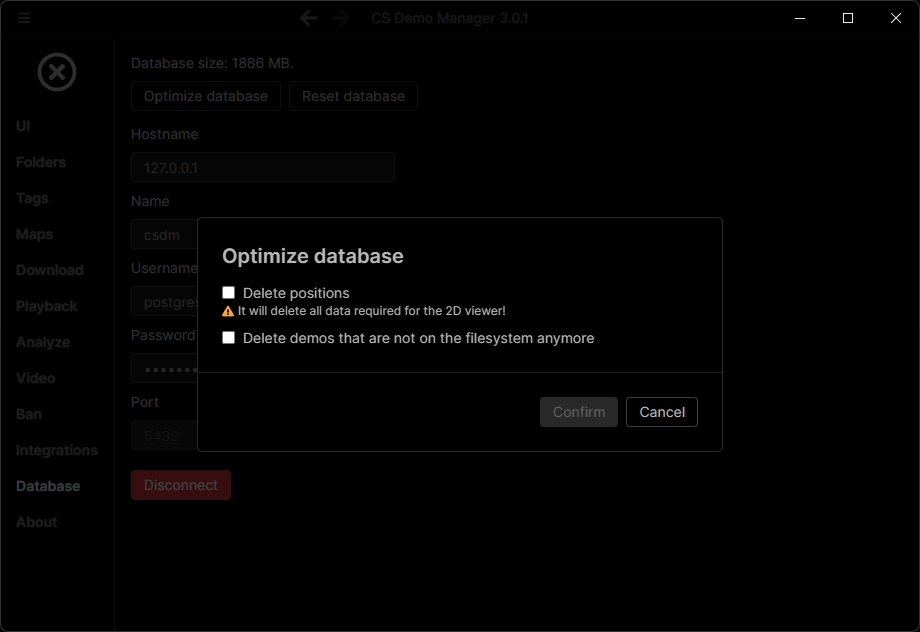
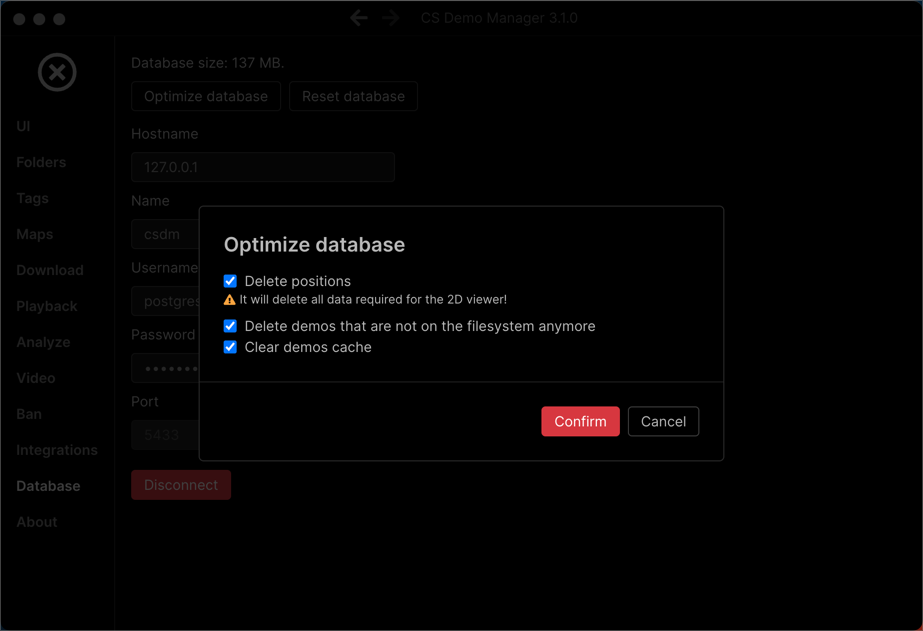
feat: 3.2.0 changelog

diff --git a/docs/06-cli.md b/docs/06-cli.md
@@ -170,11 +170,11 @@ Analyze demos and persist them in the database.
 csdm analyze [demoPaths...] [--source] [--force]
 ```
 
-| Name      | Default | Mandatory | Description                                                                                                                                |
-| --------- | ------- | --------- | ------------------------------------------------------------------------------------------------------------------------------------------ |
-| demoPaths |         | Yes       | Demos paths, can be either a `.dem` files path or a directory. It can be relative or absolute.                                             |
-| --source  |         | No        | Force the analysis logic of the demo analyzer. Available values: `challengermode,ebot,esea,esl,faceit,perfectworld,popflash,valve,fastcup` |
-| --force   | `false` | No        | Force demos analyzes even if they are already in the database.                                                                             |
+| Name      | Default | Mandatory | Description                                                                                                                                       |
+| --------- | ------- | --------- | ------------------------------------------------------------------------------------------------------------------------------------------------- |
+| demoPaths |         | Yes       | Demos paths, can be either a `.dem` files path or a directory. It can be relative or absolute.                                                    |
+| --source  |         | No        | Force the analysis logic of the demo analyzer. Available values: `challengermode,ebot,esea,esl,faceit,5eplay,fastcup,perfectworld,popflash,valve` |
+| --force   | `false` | No        | Force demos analyzes even if they are already in the database.                                                                                    |
 
 ### Examples
 
@@ -204,14 +204,14 @@ Analyze and export demos to either a single or multiple XLSX files.
 csdm xlsx demoPaths... [--output-folder] [--source] [--single] [--sheets] [--force-analyze]
 ```
 
-| Name            | Default           | Mandatory | Description                                                                                                                                |
-| --------------- | ----------------- | --------- | ------------------------------------------------------------------------------------------------------------------------------------------ |
-| demoPaths       |                   | Yes       | Demos paths, can be either a `.dem` files path or a directory. It can be relative or absolute.                                             |
-| --source        |                   | No        | Force the analysis logic of the demo analyzer. Available values: `challengermode,ebot,esea,esl,faceit,perfectworld,popflash,valve,fastcup` |
-| --output-folder | Current directory | No        | Directory where output files will be saved.                                                                                                |
-| --single        | `false`           | No        | Generates a single XLSX file instead of one per demo.                                                                                      |
-| --sheets        | All sheets        | No        | Includes only sheets identified by its name. Available values: [general,players,rounds,kills].                                             |
-| --force-analyze | `false`           | No        | Force demos analyzes even if they are already in the database.                                                                             |
+| Name            | Default           | Mandatory | Description                                                                                                                                       |
+| --------------- | ----------------- | --------- | ------------------------------------------------------------------------------------------------------------------------------------------------- |
+| demoPaths       |                   | Yes       | Demos paths, can be either a `.dem` files path or a directory. It can be relative or absolute.                                                    |
+| --source        |                   | No        | Force the analysis logic of the demo analyzer. Available values: `challengermode,ebot,esea,esl,faceit,5eplay,fastcup,perfectworld,popflash,valve` |
+| --output-folder | Current directory | No        | Directory where output files will be saved.                                                                                                       |
+| --single        | `false`           | No        | Generates a single XLSX file instead of one per demo.                                                                                             |
+| --sheets        | All sheets        | No        | Includes only sheets identified by its name. Available values: [general,players,rounds,kills].                                                    |
+| --force-analyze | `false`           | No        | Force demos analyzes even if they are already in the database.                                                                                    |
 
 ### Examples
 

diff --git a/docs/04-faq/04-stats.md b/docs/04-faq/04-stats.md
@@ -24,6 +24,7 @@ To change a demo's source, right-click on it in the demos list and click on **Ch
 
 | Source         | CSGO | CS2 | Comment                                                                                                                 |
 | -------------- | ---- | --- | ----------------------------------------------------------------------------------------------------------------------- |
+| 5EPlay         | ✅   | ✅  |                                                                                                                         |
 | CEVO           | ❌   | ❌  | Dead platform but demos are still detected in the app                                                                   |
 | Challengermode | ✅   | ✅  |                                                                                                                         |
 | eBot           | ✅   | ✅  |                                                                                                                         |

diff --git a/docs/04-faq/03-playback.md b/docs/04-faq/03-playback.md
@@ -6,7 +6,13 @@ hide_title: true
 ## The camera doesn't focus on the player
 
 - On **Linux and CS2 demos** it's [not yet supported](/docs/cs2#demo-playback). You have to focus the camera manually.
-- On **Windows and CS2 demos** you have to keep the [CS2 window focused](/docs/cs2#demo-playback).
+- On **Windows and CS2 demos** you have to keep the [CS2 window focused](/docs/cs2#demo-playback).  
+  If the camera focuses on the wrong player, it's probably because the player's spectate keyboard key sent to CS2 is incorrect.  
+  It can happen with demos that include players disconnection or teams switching.  
+  To fix it, you have to:
+  1. Watch the demo and press the number keys until the camera is on the player you want - **note the key**.
+  2. Go to the match's scoreboard, right-click on the player, and click on **Update spectate key**.
+  3. Select the key you noted in step 1 and click on **Confirm**.
 
 ## CS2 demo playback doesn't start or crashes
 

diff --git a/docs/03-guides/06-database.md b/docs/03-guides/06-database.md
@@ -14,6 +14,7 @@ You can optimize the database (reduce disk usage, query time…) from the applic
    - `Delete positions`: This will delete all positions used for the 2D viewer - It **strongly** reduces disk usage.
    - `Delete demos that are not on the filesystem anymore`: This will delete demos references **in the database only**
      known by the application that doesn't exist on the filesystem anymore.
+   - `Clear demos cache`: This will delete all demos references **in the database only** known by the application.
 5. Confirm and wait for the process to finish.
 
 ## Using a remote database
